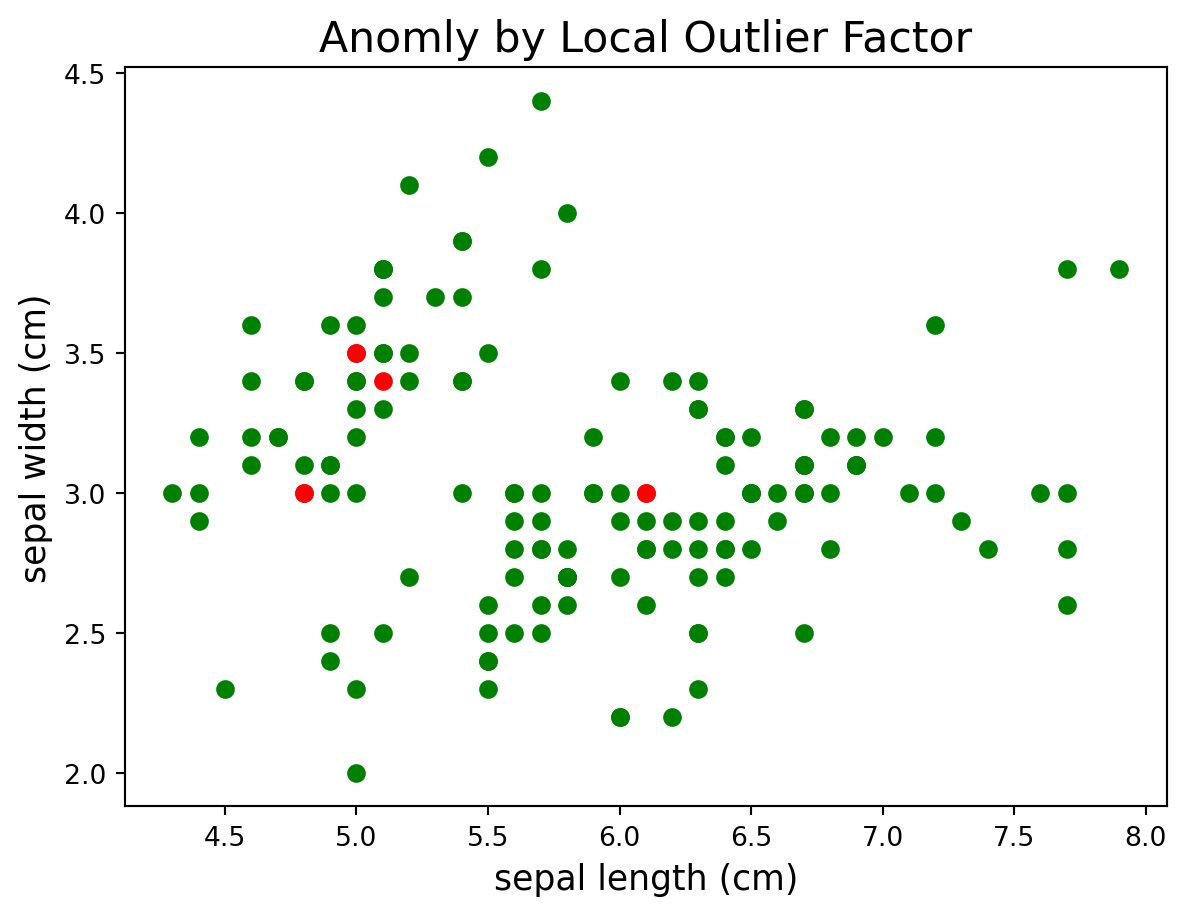
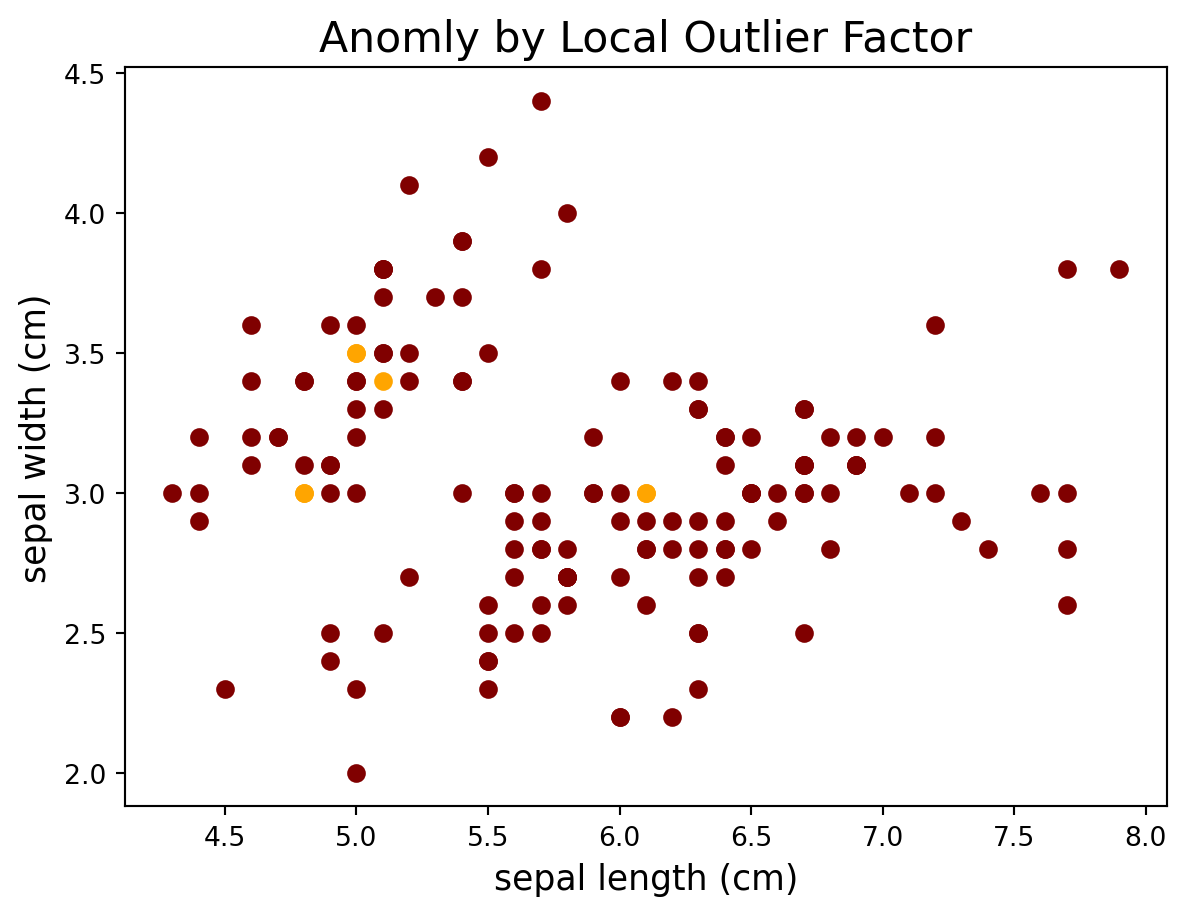
update anomaly detection blog post

diff --git a/docs/posts/Anomaly Outlier Matrix/index.html b/docs/posts/Anomaly Outlier Matrix/index.html
@@ -7,7 +7,7 @@
 <meta name="viewport" content="width=device-width, initial-scale=1.0, user-scalable=yes">
 
 <meta name="author" content="Huayu Liang">
-<meta name="dcterms.date" content="2023-11-29">
+<meta name="dcterms.date" content="2023-11-30">
 
 <title>Huayu Liang - Anomaly/Outlier Matrix</title>
 <style>
@@ -195,7 +195,7 @@ pre > code.sourceCode > span > a:first-child::before { text-decoration: underlin
       <div>
       <div class="quarto-title-meta-heading">Published</div>
       <div class="quarto-title-meta-contents">
-        <p class="date">November 29, 2023</p>
+        <p class="date">November 30, 2023</p>
       </div>
     </div>
     
@@ -329,7 +329,7 @@ pre > code.sourceCode > span > a:first-child::before { text-decoration: underlin
 <span id="cb1-2"><a href="#cb1-2" aria-hidden="true" tabindex="-1"></a>df <span class="op">=</span> load_iris(as_frame<span class="op">=</span><span class="va">True</span>).frame </span>
 <span id="cb1-3"><a href="#cb1-3" aria-hidden="true" tabindex="-1"></a>df.head(<span class="dv">5</span>)</span></code><button title="Copy to Clipboard" class="code-copy-button"><i class="bi"></i></button></pre></div>
 </details>
-<div class="cell-output cell-output-display" data-execution_count="1">
+<div class="cell-output cell-output-display" data-execution_count="73">
 <div>
 
 
@@ -391,7 +391,7 @@ pre > code.sourceCode > span > a:first-child::before { text-decoration: underlin
 </div>
 </div>
 </div>
-<p>Next, the following provides various examples of anomaly detection algorithms</p>
+<p>Next, the following provides various visualization examples using different anomaly detection algorithms</p>
 <section id="local-outlier-factor-lof" class="level3">
 <h3 class="anchored" data-anchor-id="local-outlier-factor-lof"><strong>1. Local Outlier Factor (LOF)</strong></h3>
 <div class="cell" data-execution_count="2">
@@ -420,7 +420,7 @@ pre > code.sourceCode > span > a:first-child::before { text-decoration: underlin
 <span id="cb2-21"><a href="#cb2-21" aria-hidden="true" tabindex="-1"></a>outliers <span class="op">=</span> np.argwhere(scores <span class="op">&gt;</span> np.percentile(scores, <span class="dv">95</span>)) </span>
 <span id="cb2-22"><a href="#cb2-22" aria-hidden="true" tabindex="-1"></a></span>
 <span id="cb2-23"><a href="#cb2-23" aria-hidden="true" tabindex="-1"></a><span class="co"># Plot anomly </span></span>
-<span id="cb2-24"><a href="#cb2-24" aria-hidden="true" tabindex="-1"></a>colors<span class="op">=</span>[<span class="st">'green'</span>,<span class="st">'red'</span>] </span>
+<span id="cb2-24"><a href="#cb2-24" aria-hidden="true" tabindex="-1"></a>colors<span class="op">=</span>[<span class="st">'maroon'</span>,<span class="st">'orange'</span>] </span>
 <span id="cb2-25"><a href="#cb2-25" aria-hidden="true" tabindex="-1"></a></span>
 <span id="cb2-26"><a href="#cb2-26" aria-hidden="true" tabindex="-1"></a><span class="cf">for</span> i <span class="kw">in</span> <span class="bu">range</span>(<span class="bu">len</span>(X)): </span>
 <span id="cb2-27"><a href="#cb2-27" aria-hidden="true" tabindex="-1"></a>    <span class="cf">if</span> i <span class="kw">not</span> <span class="kw">in</span> outliers: </span>
@@ -464,7 +464,7 @@ pre > code.sourceCode > span > a:first-child::before { text-decoration: underlin
 <span id="cb3-20"><a href="#cb3-20" aria-hidden="true" tabindex="-1"></a>outliers <span class="op">=</span> np.argwhere(scores <span class="op">&lt;</span> np.percentile(scores, <span class="dv">5</span>)) </span>
 <span id="cb3-21"><a href="#cb3-21" aria-hidden="true" tabindex="-1"></a></span>
 <span id="cb3-22"><a href="#cb3-22" aria-hidden="true" tabindex="-1"></a><span class="co"># Plot anomly </span></span>
-<span id="cb3-23"><a href="#cb3-23" aria-hidden="true" tabindex="-1"></a>colors<span class="op">=</span>[<span class="st">'green'</span>,<span class="st">'red'</span>] </span>
+<span id="cb3-23"><a href="#cb3-23" aria-hidden="true" tabindex="-1"></a>colors<span class="op">=</span>[<span class="st">'maroon'</span>,<span class="st">'orange'</span>] </span>
 <span id="cb3-24"><a href="#cb3-24" aria-hidden="true" tabindex="-1"></a></span>
 <span id="cb3-25"><a href="#cb3-25" aria-hidden="true" tabindex="-1"></a><span class="cf">for</span> i <span class="kw">in</span> <span class="bu">range</span>(<span class="bu">len</span>(X)): </span>
 <span id="cb3-26"><a href="#cb3-26" aria-hidden="true" tabindex="-1"></a>    <span class="cf">if</span> i <span class="kw">not</span> <span class="kw">in</span> outliers: </span>
@@ -508,7 +508,7 @@ pre > code.sourceCode > span > a:first-child::before { text-decoration: underlin
 <span id="cb4-20"><a href="#cb4-20" aria-hidden="true" tabindex="-1"></a>outliers <span class="op">=</span> np.argwhere(scores <span class="op">&lt;</span> np.percentile(scores, <span class="dv">5</span>)) </span>
 <span id="cb4-21"><a href="#cb4-21" aria-hidden="true" tabindex="-1"></a></span>
 <span id="cb4-22"><a href="#cb4-22" aria-hidden="true" tabindex="-1"></a><span class="co"># Plot anomly </span></span>
-<span id="cb4-23"><a href="#cb4-23" aria-hidden="true" tabindex="-1"></a>colors<span class="op">=</span>[<span class="st">'green'</span>,<span class="st">'red'</span>] </span>
+<span id="cb4-23"><a href="#cb4-23" aria-hidden="true" tabindex="-1"></a>colors<span class="op">=</span>[<span class="st">'maroon'</span>,<span class="st">'orange'</span>] </span>
 <span id="cb4-24"><a href="#cb4-24" aria-hidden="true" tabindex="-1"></a></span>
 <span id="cb4-25"><a href="#cb4-25" aria-hidden="true" tabindex="-1"></a><span class="cf">for</span> i <span class="kw">in</span> <span class="bu">range</span>(<span class="bu">len</span>(X)): </span>
 <span id="cb4-26"><a href="#cb4-26" aria-hidden="true" tabindex="-1"></a>    <span class="cf">if</span> i <span class="kw">not</span> <span class="kw">in</span> outliers: </span>
@@ -573,6 +573,7 @@ pre > code.sourceCode > span > a:first-child::before { text-decoration: underlin
 </section>
 <section id="conclusion" class="level2">
 <h2 class="anchored" data-anchor-id="conclusion">Conclusion</h2>
+<p>In this blog post, we explored anomaly detection in machine learning using different algorithm approaches such as LOF, Isolation Forest, and one-class SVM on the Iris dataset. Beside we also explore the DBSCAN for outlier detection in scatter plot.</p>
 <p>Anomaly detection is a critical task in various fields, including fraud detection, network security, and quality control. You can experiment with different datasets, explore other anomaly detection algorithms like K-Means Clustering, Z-score (statistic), and Autoencoders, and adjust threshold values to adapt to specific use cases.</p>
 
 
@@ -1055,7 +1056,7 @@ window.document.addEventListener("DOMContentLoaded", function (event) {
 <span id="cb7-62"><a href="#cb7-62" aria-hidden="true" tabindex="-1"></a>df.head(<span class="dv">5</span>)</span>
 <span id="cb7-63"><a href="#cb7-63" aria-hidden="true" tabindex="-1"></a><span class="in">```</span></span>
 <span id="cb7-64"><a href="#cb7-64" aria-hidden="true" tabindex="-1"></a></span>
-<span id="cb7-65"><a href="#cb7-65" aria-hidden="true" tabindex="-1"></a>Next, the following provides various examples of anomaly detection algorithms</span>
+<span id="cb7-65"><a href="#cb7-65" aria-hidden="true" tabindex="-1"></a>Next, the following provides various visualization examples using different anomaly detection algorithms</span>
 <span id="cb7-66"><a href="#cb7-66" aria-hidden="true" tabindex="-1"></a></span>
 <span id="cb7-67"><a href="#cb7-67" aria-hidden="true" tabindex="-1"></a><span class="fu">### **1. Local Outlier Factor (LOF)**</span></span>
 <span id="cb7-68"><a href="#cb7-68" aria-hidden="true" tabindex="-1"></a></span>
@@ -1083,7 +1084,7 @@ window.document.addEventListener("DOMContentLoaded", function (event) {
 <span id="cb7-92"><a href="#cb7-92" aria-hidden="true" tabindex="-1"></a>outliers <span class="op">=</span> np.argwhere(scores <span class="op">&gt;</span> np.percentile(scores, <span class="dv">95</span>)) </span>
 <span id="cb7-93"><a href="#cb7-93" aria-hidden="true" tabindex="-1"></a></span>
 <span id="cb7-94"><a href="#cb7-94" aria-hidden="true" tabindex="-1"></a><span class="co"># Plot anomly </span></span>
-<span id="cb7-95"><a href="#cb7-95" aria-hidden="true" tabindex="-1"></a>colors<span class="op">=</span>[<span class="st">'green'</span>,<span class="st">'red'</span>] </span>
+<span id="cb7-95"><a href="#cb7-95" aria-hidden="true" tabindex="-1"></a>colors<span class="op">=</span>[<span class="st">'maroon'</span>,<span class="st">'orange'</span>] </span>
 <span id="cb7-96"><a href="#cb7-96" aria-hidden="true" tabindex="-1"></a></span>
 <span id="cb7-97"><a href="#cb7-97" aria-hidden="true" tabindex="-1"></a><span class="cf">for</span> i <span class="kw">in</span> <span class="bu">range</span>(<span class="bu">len</span>(X)): </span>
 <span id="cb7-98"><a href="#cb7-98" aria-hidden="true" tabindex="-1"></a>    <span class="cf">if</span> i <span class="kw">not</span> <span class="kw">in</span> outliers: </span>
@@ -1121,7 +1122,7 @@ window.document.addEventListener("DOMContentLoaded", function (event) {
 <span id="cb7-132"><a href="#cb7-132" aria-hidden="true" tabindex="-1"></a>outliers <span class="op">=</span> np.argwhere(scores <span class="op">&lt;</span> np.percentile(scores, <span class="dv">5</span>)) </span>
 <span id="cb7-133"><a href="#cb7-133" aria-hidden="true" tabindex="-1"></a></span>
 <span id="cb7-134"><a href="#cb7-134" aria-hidden="true" tabindex="-1"></a><span class="co"># Plot anomly </span></span>
-<span id="cb7-135"><a href="#cb7-135" aria-hidden="true" tabindex="-1"></a>colors<span class="op">=</span>[<span class="st">'green'</span>,<span class="st">'red'</span>] </span>
+<span id="cb7-135"><a href="#cb7-135" aria-hidden="true" tabindex="-1"></a>colors<span class="op">=</span>[<span class="st">'maroon'</span>,<span class="st">'orange'</span>] </span>
 <span id="cb7-136"><a href="#cb7-136" aria-hidden="true" tabindex="-1"></a></span>
 <span id="cb7-137"><a href="#cb7-137" aria-hidden="true" tabindex="-1"></a><span class="cf">for</span> i <span class="kw">in</span> <span class="bu">range</span>(<span class="bu">len</span>(X)): </span>
 <span id="cb7-138"><a href="#cb7-138" aria-hidden="true" tabindex="-1"></a>    <span class="cf">if</span> i <span class="kw">not</span> <span class="kw">in</span> outliers: </span>
@@ -1159,7 +1160,7 @@ window.document.addEventListener("DOMContentLoaded", function (event) {
 <span id="cb7-172"><a href="#cb7-172" aria-hidden="true" tabindex="-1"></a>outliers <span class="op">=</span> np.argwhere(scores <span class="op">&lt;</span> np.percentile(scores, <span class="dv">5</span>)) </span>
 <span id="cb7-173"><a href="#cb7-173" aria-hidden="true" tabindex="-1"></a></span>
 <span id="cb7-174"><a href="#cb7-174" aria-hidden="true" tabindex="-1"></a><span class="co"># Plot anomly </span></span>
-<span id="cb7-175"><a href="#cb7-175" aria-hidden="true" tabindex="-1"></a>colors<span class="op">=</span>[<span class="st">'green'</span>,<span class="st">'red'</span>] </span>
+<span id="cb7-175"><a href="#cb7-175" aria-hidden="true" tabindex="-1"></a>colors<span class="op">=</span>[<span class="st">'maroon'</span>,<span class="st">'orange'</span>] </span>
 <span id="cb7-176"><a href="#cb7-176" aria-hidden="true" tabindex="-1"></a></span>
 <span id="cb7-177"><a href="#cb7-177" aria-hidden="true" tabindex="-1"></a><span class="cf">for</span> i <span class="kw">in</span> <span class="bu">range</span>(<span class="bu">len</span>(X)): </span>
 <span id="cb7-178"><a href="#cb7-178" aria-hidden="true" tabindex="-1"></a>    <span class="cf">if</span> i <span class="kw">not</span> <span class="kw">in</span> outliers: </span>
@@ -1211,7 +1212,9 @@ window.document.addEventListener("DOMContentLoaded", function (event) {
 <span id="cb7-226"><a href="#cb7-226" aria-hidden="true" tabindex="-1"></a></span>
 <span id="cb7-227"><a href="#cb7-227" aria-hidden="true" tabindex="-1"></a><span class="fu">## Conclusion</span></span>
 <span id="cb7-228"><a href="#cb7-228" aria-hidden="true" tabindex="-1"></a></span>
-<span id="cb7-229"><a href="#cb7-229" aria-hidden="true" tabindex="-1"></a>Anomaly detection is a critical task in various fields, including fraud detection, network security, and quality control. You can experiment with different datasets, explore other anomaly detection algorithms like K-Means Clustering, Z-score (statistic), and Autoencoders, and adjust threshold values to adapt to specific use cases.</span>
+<span id="cb7-229"><a href="#cb7-229" aria-hidden="true" tabindex="-1"></a>In this blog post, we explored anomaly detection in machine learning using different algorithm approaches such as LOF, Isolation Forest, and one-class SVM on the Iris dataset. Beside we also explore the DBSCAN for outlier detection in scatter plot.</span>
+<span id="cb7-230"><a href="#cb7-230" aria-hidden="true" tabindex="-1"></a></span>
+<span id="cb7-231"><a href="#cb7-231" aria-hidden="true" tabindex="-1"></a>Anomaly detection is a critical task in various fields, including fraud detection, network security, and quality control. You can experiment with different datasets, explore other anomaly detection algorithms like K-Means Clustering, Z-score (statistic), and Autoencoders, and adjust threshold values to adapt to specific use cases.</span>
 </code><button title="Copy to Clipboard" class="code-copy-button"><i class="bi"></i></button></pre></div>
 </div></div></div></div></div>
 </div> <!-- /content -->

diff --git a/docs/index.html b/docs/index.html
@@ -267,7 +267,7 @@ ul.task-list li input[type="checkbox"] {
 
 <div class="quarto-listing quarto-listing-container-default" id="listing-listing">
 <div class="list quarto-listing-default">
-<div class="quarto-post image-right" data-index="0" data-categories="ML,visualization,classification" data-listing-date-sort="1701402157000" data-listing-file-modified-sort="1701399921186" data-listing-date-modified-sort="NaN" data-listing-reading-time-sort="8">
+<div class="quarto-post image-right" data-index="0" data-categories="ML,visualization,classification" data-listing-date-sort="1701402801000" data-listing-file-modified-sort="1701399921186" data-listing-date-modified-sort="NaN" data-listing-reading-time-sort="8">
 <div class="thumbnail">
 <p><a href="./posts/Classification/index.html"> <img src="./posts/Classification/classification.png" class="thumbnail-image"> </a></p>
 </div>
@@ -308,7 +308,7 @@ Huayu Liang
 </a>
 </div>
 </div>
-<div class="quarto-post image-right" data-index="1" data-categories="ML,visualization,matrix" data-listing-date-sort="1701402157000" data-listing-file-modified-sort="1701317848724" data-listing-date-modified-sort="NaN" data-listing-reading-time-sort="5">
+<div class="quarto-post image-right" data-index="1" data-categories="ML,visualization,matrix" data-listing-date-sort="1701402801000" data-listing-file-modified-sort="1701402798629" data-listing-date-modified-sort="NaN" data-listing-reading-time-sort="5">
 <div class="thumbnail">
 <p><a href="./posts/Anomaly Outlier Matrix/index.html"> <img src="./posts/Anomaly Outlier Matrix/matrix.png" class="thumbnail-image"> </a></p>
 </div>
@@ -349,7 +349,7 @@ Huayu Liang
 </a>
 </div>
 </div>
-<div class="quarto-post image-right" data-index="2" data-categories="ML,visualization,linear regressson" data-listing-date-sort="1701402157000" data-listing-file-modified-sort="1701402155731" data-listing-date-modified-sort="NaN" data-listing-reading-time-sort="5">
+<div class="quarto-post image-right" data-index="2" data-categories="ML,visualization,linear regressson" data-listing-date-sort="1701402801000" data-listing-file-modified-sort="1701402155731" data-listing-date-modified-sort="NaN" data-listing-reading-time-sort="5">
 <div class="thumbnail">
 <p><a href="./posts/Linear and Nonlinear Regression/index.html"> <img src="./posts/Linear and Nonlinear Regression/linear.png" class="thumbnail-image"> </a></p>
 </div>
@@ -390,7 +390,7 @@ Huayu Liang
 </a>
 </div>
 </div>
-<div class="quarto-post image-right" data-index="3" data-categories="ML,visualization,probability theory" data-listing-date-sort="1701402157000" data-listing-file-modified-sort="1701390530601" data-listing-date-modified-sort="NaN" data-listing-reading-time-sort="7">
+<div class="quarto-post image-right" data-index="3" data-categories="ML,visualization,probability theory" data-listing-date-sort="1701402801000" data-listing-file-modified-sort="1701390530601" data-listing-date-modified-sort="NaN" data-listing-reading-time-sort="7">
 <div class="thumbnail">
 <p><a href="./posts/Probability Theory and Random Variables/index.html"> <img src="./posts/Probability Theory and Random Variables/probability.png" class="thumbnail-image"> </a></p>
 </div>
@@ -431,7 +431,7 @@ Huayu Liang
 </a>
 </div>
 </div>
-<div class="quarto-post image-right" data-index="4" data-categories="ML,visualization,clustering" data-listing-date-sort="1701402157000" data-listing-file-modified-sort="1701397208253" data-listing-date-modified-sort="NaN" data-listing-reading-time-sort="5">
+<div class="quarto-post image-right" data-index="4" data-categories="ML,visualization,clustering" data-listing-date-sort="1701402801000" data-listing-file-modified-sort="1701397208253" data-listing-date-modified-sort="NaN" data-listing-reading-time-sort="5">
 <div class="thumbnail">
 <p><a href="./posts/Clustering/index.html"> <img src="./posts/Clustering/clustering.png" class="thumbnail-image"> </a></p>
 </div>
@@ -472,7 +472,7 @@ Huayu Liang
 </a>
 </div>
 </div>
-<div class="quarto-post image-right" data-index="5" data-categories="ML,introduction" data-listing-date-sort="1701402157000" data-listing-file-modified-sort="1701208258595" data-listing-date-modified-sort="NaN" data-listing-reading-time-sort="5">
+<div class="quarto-post image-right" data-index="5" data-categories="ML,introduction" data-listing-date-sort="1701402801000" data-listing-file-modified-sort="1701208258595" data-listing-date-modified-sort="NaN" data-listing-reading-time-sort="5">
 <div class="thumbnail">
 <p><a href="./posts/Intro To Machine Learning/index.html"> <p class="card-img-top"><img src="posts/Intro To Machine Learning/ML.jpeg"  class="thumbnail-image card-img"/></p> </a></p>
 </div>
